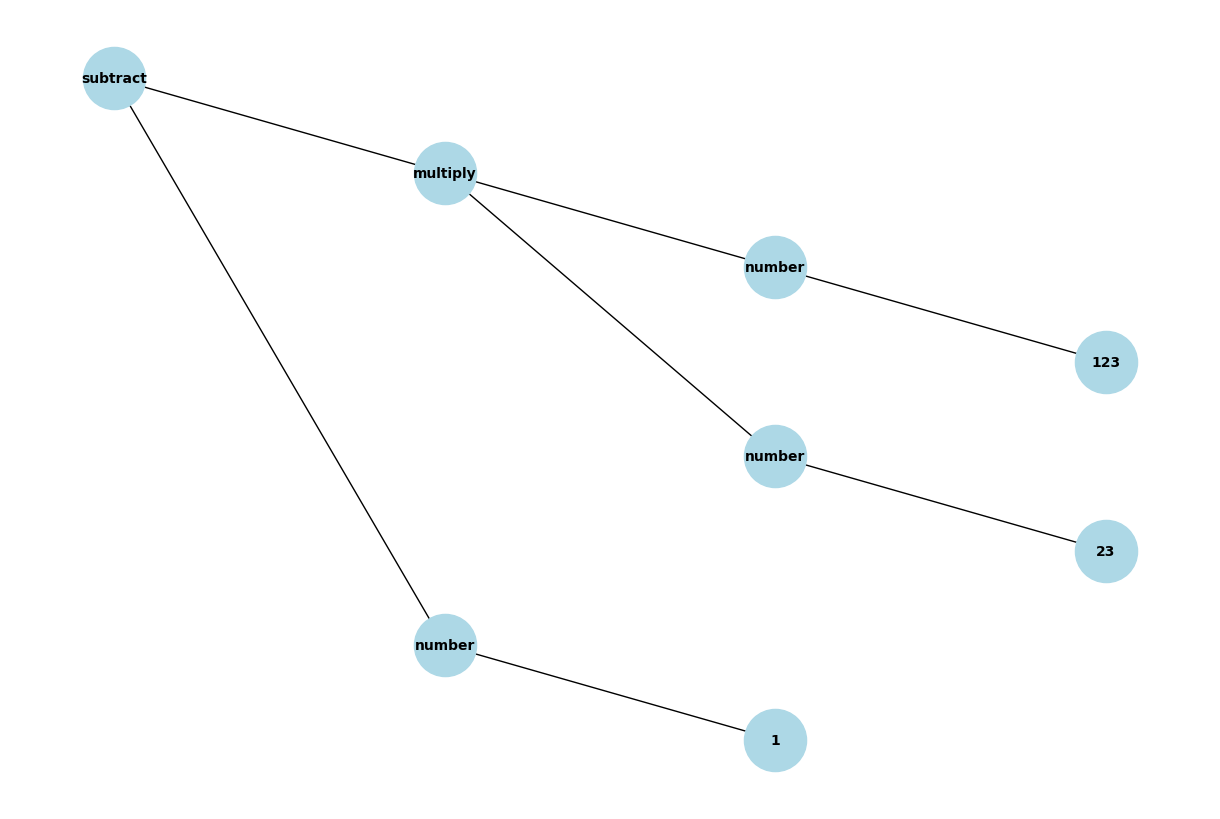
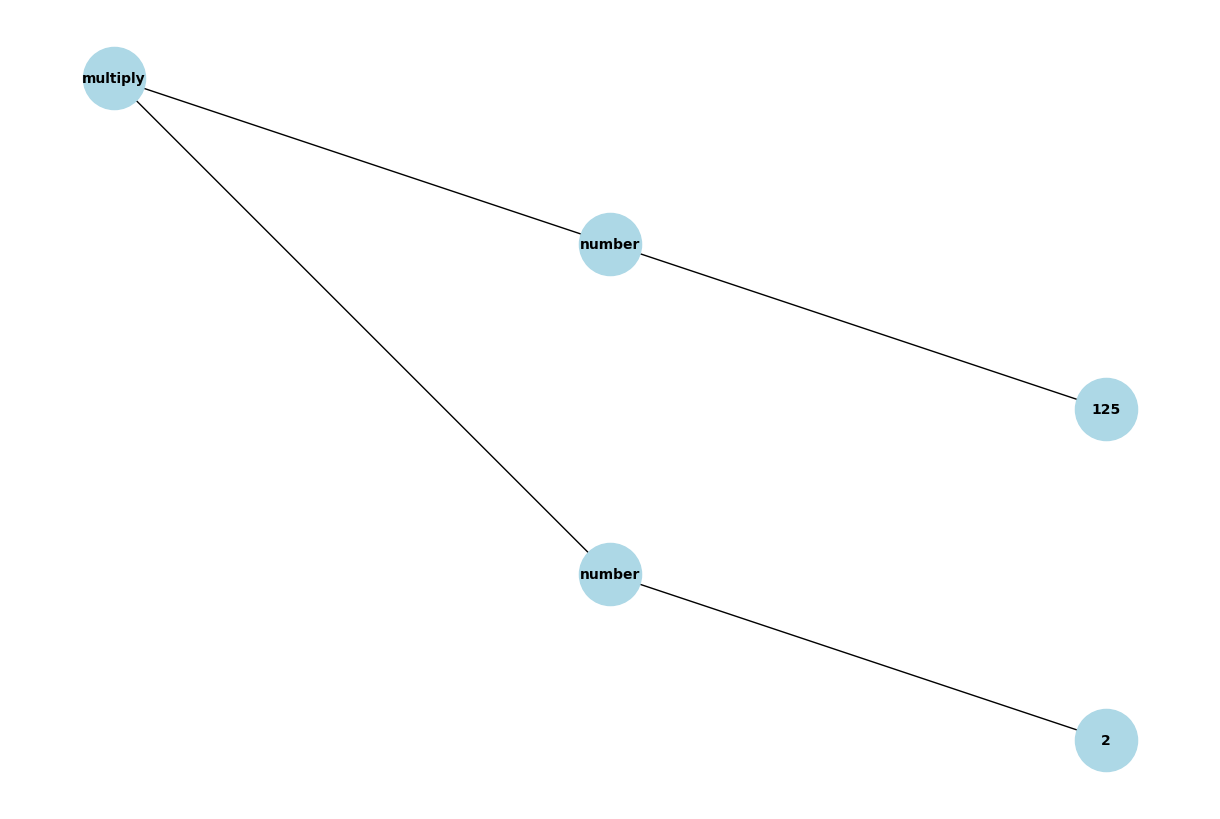
falta tabla

diff --git a/calculadora/templates/index.html b/calculadora/templates/index.html
@@ -12,13 +12,13 @@
    <div class="calculator">
     <div class="header">
        <div class="window">
-          <span class="red"></span>
-          <span class="yellow"></span>
-          <span class="green"></span>
+           <button class="btn red">MS</button>
+           <button class="btn green toggle">Tree</button>
        </div>
-     <label class="display" for="displayInput">
-     <input type="text" value="0" id="displayInput" placeholder="0" disabled>
+       <label class="display" for="displayInput">
+      <input type="text" value="0" id="displayInput" placeholder="0" disabled>
     </div>
+
     <div class="keys">
        <div class="row">
          <div class="symbol">
@@ -77,13 +77,14 @@
     </div>
    </div>
    <div class="binaryTree">
-      <img id="binaryTreeImage" src="" alt="Binary Tree">
+      <img id="binaryTreeImage" src="static/images/blanco.png" alt="Binary Tree">
    </div>
    <script>
       let resuelto = false;
+      let memoryValue = null;
       function updateBinaryTreeImage(imageUrl) {
        const binaryTreeImage = document.getElementById("binaryTreeImage");
-       const uniqueUrl = `${imageUrl}?t=${new Date().getTime()}`; // Agregar timestamp para evitar caché
+       const uniqueUrl = `${imageUrl}?t=${new Date().getTime()}`;
        if (binaryTreeImage) {
            binaryTreeImage.src = uniqueUrl;
        } else {
@@ -91,8 +92,6 @@
            binaryTreeContainer.innerHTML = `<img id="binaryTreeImage" src="${uniqueUrl}" alt="Binary Tree">`;
        }
       }
-
-
       function evaluateExpression(expression, input) {
          console.log("Expresión a evaluar:", expression);
          try{
@@ -172,6 +171,7 @@
       });
 
       document.addEventListener("click", function (event) {
+         console.log("Click en:", event.target);
        if (event.target.tagName === "SPAN") {
            const value = event.target.textContent;
            const input = document.getElementById("displayInput");
@@ -189,12 +189,16 @@
                    dullSpan.classList.replace("dull", "active");
                }
            }           
-           else if (["+", "-", "*", "/", "(", ")", "."].includes(value)) {
-               input.value = currentValue + " " + value + " ";
-               if (dullSpan) {
-                   dullSpan.classList.replace("dull", "active");
-               }
-           }        
+           else if (["+", "-", "*", "/", "(", ")", "."].includes(value)) {              
+              if (".".includes(value)) {
+                  input.value = currentValue + value;
+              } else {
+                  input.value = currentValue + " " + value + " ";
+              }
+              if (dullSpan) {
+                 dullSpan.classList.replace("dull", "active");
+              }
+            }       
            else if (value === "Enter") {
                const expression = input.value;
                evaluateExpression(expression, input);
@@ -221,7 +225,31 @@
                   }
                }
            }
-       }
+       } else if (event.target.tagName === "DIV") {
+           const input = document.getElementById("displayInput");
+           const expression = input.value;
+           evaluateExpression(expression, input.value);
+       } 
+       event.preventDefault();
    });
+   msBtn = document.querySelector('.btn.red')
+   msBtn.addEventListener('click', function () {
+      const input = document.getElementById('displayInput');
+      const displayValue = input.value.trim();   
+      if (/^-?\d+(\.\d+)?$/.test(displayValue) && msBtn.textContent === 'MS') {
+         memoryValue = parseFloat(displayValue);
+         console.log(`Valor guardado en memoria: ${memoryValue}`);
+         alert(`Número guardado: ${memoryValue}`);
+         msBtn.textContent = 'Guardado';
+         input.value = '0';
+         return;
+      } else if (msBtn.textContent === 'Guardado') {
+         input.value = memoryValue;
+         msBtn.textContent = 'MS';
+         return;
+      } else {
+         console.log('El contenido no es un número válido');
+         alert('Error: No se puede guardar una expresión en memoria');
+      }});
   </script>
 </html>

diff --git a/calculadora/static/css/main.css b/calculadora/static/css/main.css
@@ -19,37 +19,54 @@ body {
    background-color: #f5f5f5;
 }
 .calculator .header {
-    background-color: #000;
-    height: 120px;
-    border-radius: 10px 10px 0 0;
- }
- 
+   background-color: #000;
+   height: 120px;
+   border-radius: 10px 10px 0 0;
+   display: flex;
+   flex-direction: column;
+   justify-content: center;
+   align-items: center;
+}
+
 .calculator .header .window {
-    height: 15px;
-    display: flex;
-    justify-content: flex-start;
-    padding: 10px;
- }
- 
-.calculator .header .window span {
-    width: 10px;
-    height: 10px;
-    border-radius: 50%;
-    margin-right: 5px;
-    cursor: pointer;
- }
- 
-.calculator .header .window span.red {
-    background-color: #ff5252;
- }
- 
-.calculator .header .window span.yellow {
-    background-color: #f5a623;
- }
- 
-.calculator .header .window span.green {
-    background-color: #73c21d;
- }
+   display: flex;
+   gap: 10px;
+   margin-bottom: 10px;
+}
+
+.calculator .header .window .btn {
+   width: fit-content;
+   height: auto;
+   padding: 0 1vw;
+   border: none;
+   border-radius: 5px;
+   font-family: Arial, sans-serif;
+   font-size: 14px;
+   font-weight: bold;
+   color: #fff;
+   cursor: pointer;
+   text-align: center;
+   display: flex;
+   align-items: center;
+   justify-content: center;
+   transition: background-color 0.3s ease;
+}
+
+.calculator .header .window .btn.red {
+   background-color: #ff5252;
+}
+
+.calculator .header .window .btn.red:hover {
+   background-color: #ff7a7a;
+}
+
+.calculator .header .window .btn.green {
+   background-color: #73c21d;
+}
+
+.calculator .header .window .btn.green:hover {
+   background-color: #91db45;
+}
 
  .calculator .header label {
     display: block;

diff --git a/calculadora/app.py b/calculadora/app.py
@@ -6,8 +6,29 @@ matplotlib.use('Agg')
 import matplotlib.pyplot as plt
 import io
 import os
+import ply.lex as lex
 
 app = Flask(__name__)
+
+tokens = [
+    'FLOAT',
+    'NUMBER',
+    'PLUS',
+    'MINUS',
+    'MULTIPLY',
+    'DIVIDE',
+    'LPAREN',
+    'RPAREN',
+    'DOT',
+]
+
+t_PLUS = r'\+'
+t_MINUS = r'-'
+t_MULTIPLY = r'\*'
+t_DIVIDE = r'/'
+t_LPAREN = r'\('
+t_RPAREN = r'\)'
+t_DOT = r'\.'
 
 math_grammar = """
     ?start: expr
@@ -17,15 +38,19 @@ math_grammar = """
     ?term: factor
          | term "*" factor -> multiply
          | term "/" factor -> divide
-    ?factor: NUMBER        -> number
+    ?factor: FLOAT         -> float
+           | NUMBER        -> number
            | "(" expr ")"
-    NUMBER: /[0-9]+(\\.[0-9]+)?/
+    FLOAT: /[0-9]+\\.[0-9]+/
+    NUMBER: /[0-9]+/
     %ignore " "
 """
 
 parser = Lark(math_grammar, parser="lalr")
 
 class EvaluateTree(Transformer):
+    def float(self, args):
+        return float(args[0])
     def number(self, n):
         return int(n[0])
 
